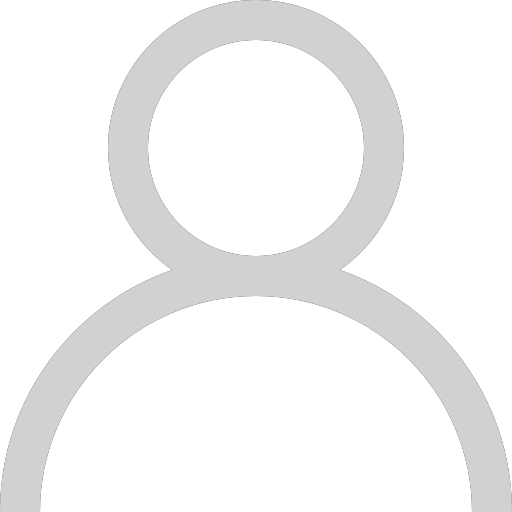
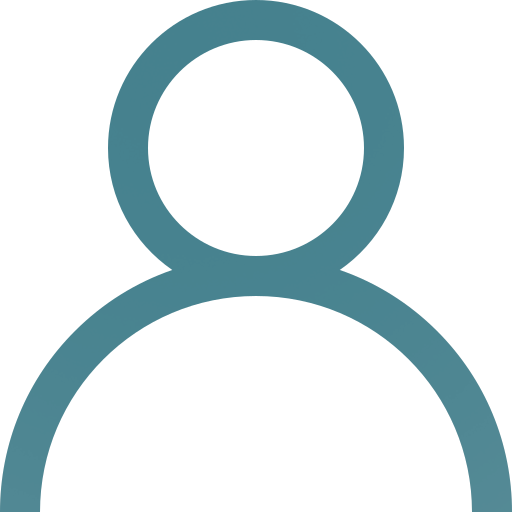
registeration first page

Changed region(s): [[0.0, 0.0, 1.0, 1.0]]

diff --git a/ui/src/components/registration.vue b/ui/src/components/registration.vue
@@ -1,54 +1,69 @@
 <template>
   <div class="registration">
     <div class="profile" v-if="pageState === 0">
-      <label class="uploadPicButton">
-        {{ upLoadPicName }}
-        <!-- 選擇檔案按鈕 但因為需要美化 因此直接display none -->
-        <input
-          type="file"
-          accept="image/jpg, image/jpeg, image/png, image/gif"
-          @change="changeImage"
-          style="display: none"
-        />
-      </label>
-      <img class="pic" :src="img" />
+      <div class="uploadPic">
+        <img :src="img"  class="pic"/>
+
+        <img class="uploadBtn" src="/static/media/camera_g.png"/>
+        <input type="file" 
+               accept="image/*" 
+               @change="changeImage"
+               class="customPicInput"   
+          />
+          <!-- <img class="uploadPicButton" for="customPicInput" src="/static/media/camera.png">
+            <input
+              type="file"
+              accept="image/jpg, image/jpeg, image/png, image/gif"
+              @change="changeImage"
+              style="opacity: 0;background-image: '/static/media/camera.png';"
+              id="customPicInput"
+            />
+          
+          <img class="pic" :src="img" /> -->
+      </div>
       <form class="inputProfile">
-        <div>
-          <label for="feedback-user">帳號</label>
-          <input v-model="userId" id="feedback-user" />
-          <p>介於1~20個字元{{ errAccount }}</p>
-          <label for="password">密碼</label>
-          <input v-model="password" type="password" id="password" />
-          <p>介於4~20個字元</p>
-        </div>
-        <div>
-          <label for="checkPassword">確認密碼</label>
-          <input v-model="checkPassword" type="password" id="checkPassword" />
-          <p v-if="correctPassword">一樣了~</p>
-          <p v-else>密碼不一樣</p>
-        </div>
-        <div>
-          <label for="nickname">暱稱</label>
-          <input v-model="nickname" type="text" id="nickname" />
-        </div>
-        <div>
-          <label for="birthday">生日</label>
-          <input v-model="birthday" id="birthday" type="date" />
-        </div>
-        <div>
-          <label for="interest">興趣</label>
-          <input v-model="interest" id="interest" type="text" />
-        </div>
-        <div>
-          <label for="intro">形容自己的一句話</label>
-          <input v-model="intro" id="intro" type="text" />
-        </div>
+          <div class="accountArea">
+            <label for="account">帳號</label>
+            <span style="color: #76a5af">介於1~20個字元{{ errAccount }}</span>
+            <div><input v-model="userId" id="account" /></div>
+          </div>
+          <div class="passwordArea">
+            <label for="password">密碼</label>
+            <span style="color: #76a5af">介於4~20個字元</span>
+            <div><input v-model="password" type="password" id="password" /></div>
+          </div>
+          <div class="checkPasswordArea">
+            <label for="checkPassword">確認密碼</label>
+            <span v-if="correctPassword" style="color: #b4a7d6;">一樣了~</span>
+            <span v-else style="color: #76a5af">密碼不一樣</span>
+            <div><input v-model="checkPassword" type="password" id="checkPassword" /></div>
+          </div>
+          <div class="nicknameArea">
+            <label for="nickname">暱稱</label>
+            <span style="color: #b4a7d6;">非必填</span>
+            <div><input v-model="nickname" type="text" id="nickname" /></div>
+          </div>
+          <div  class="birthdayArea">
+            <label for="birthday">生日</label>
+            <span style="color: #b4a7d6;">非必填</span>
+            <div><input v-model="birthday" id="birthday" type="date" /></div>
+          </div>
+          <div  class="interestArea">
+            <label for="interest">興趣</label>
+            <span style="color: #b4a7d6;">非必填</span>
+            <div><input v-model="interest" id="interest" type="text" /></div>
+          </div>
+          <div class="introArea">
+            <label for="intro">形容自己的一句話</label>
+            <span style="color: #b4a7d6;">非必填</span>
+            <div><input v-model="intro" id="intro" type="text" /></div>
+          </div>
       </form>
-      <p>{{ errMessage }}</p>
+      <p  style="color: #76a5af">{{ errMessage }}</p>
       <img
-        class="nextPage"
-        src="/static/media/rightarrow.png"
-        @click="nextPage"
+        class="nextPageImg"
+        src="/static/media/rightarrow_green.png"
+        @click="nextPageConsent"
       />
     </div>
     <div class="consentForm" v-if="pageState === 1">
@@ -59,8 +74,8 @@
       <div>
         {{ errNotAgree }}
         <img
-          class="nextPage"
-          src="/static/media/rightarrow.png"
+          class="nextPageImg"
+          src="/static/media/rightarrow_green.png"
           @click="nextFaceFeature"
         />
       </div>
@@ -89,8 +104,8 @@
       </div>
       <div>
         <img
-          class="nextPage"
-          src="/static/media/rightarrow.png"
+          class="nextPageImg"
+          src="/static/media/rightarrow_green.png"
           @click="finish"
         />
       </div>
@@ -108,7 +123,7 @@ export default {
       userId: "",
       upLoadPicName: "上傳照片",
       hasUploadPic: false,
-      img: "https://i.imgur.com/oPYT6RD.png",
+      img: "https://i.imgur.com/WinIC3F.png",
       file: "",
       errAccount: "",
       errMessage: "",
@@ -172,7 +187,7 @@ export default {
       this.birthday = year + "-" + month + "-" + date;
       field.value = year + "-" + month + "-" + date;
     },
-    nextPage() {
+    nextPageConsent() {
       console.log("想要下一頁");
       this.errMessage = "";
       this.errAccount = "";
@@ -193,7 +208,7 @@ export default {
                 console.log("NEXT");
                 this.pageState = 1;
               } else {
-                this.errAccount = "已存在此帳號";
+                this.errAccount = ",已存在此帳號";
               }
             }.bind(this)
           )
@@ -201,7 +216,7 @@ export default {
             console.log(error);
           });
       } else {
-        this.errMessage = "帳號密碼錯誤";
+        this.errMessage = "帳號密碼輸入格式錯誤";
       }
     },
     nextFaceFeature() {
@@ -241,6 +256,66 @@ export default {
 };
 </script>
 <style scoped>
+.uploadPic {
+    position: relative;
+    margin-bottom: 4vh;
+}
+/*customPicInput uploadBtn 修改時要同時修改*/
+.customPicInput{
+    position: absolute;
+    /* top: 0; */
+    bottom: 0;
+    /* left: 0; */
+    right: 0;
+    opacity: 0;
+    display: block;
+    width: 6vw;
+    height: 6vw;
+    clear: both;
+    margin-top: 10vw;
+    /* margin-bottom: 10vw; */
+}
+.uploadBtn{
+  width: 6vw;
+  height: 6vw;
+  margin-top: 10vw;
+  /* border-radius: 100%; */
+  /* margin-bottom: 10vw; */
+  /* margin-left: -7vw; */
+}
+.pic {
+  width: 45vw;
+  height: 45vw;
+  margin-top: 15vw;
+  border-radius: 100%;
+  /* margin-bottom: 5vw; */
+}
+.profile{
+    display: flex;
+    flex-direction: column;
+    align-items: center;
+}
+.inputProfile input{
+    border: 1px solid #45818e;
+    border-radius: 4px;
+    outline:none; 
+} 
+#account,#password,#checkPassword,#nickname,#birthday,#interest,#intro{
+    width:80vw;
+    margin:1vh  0 ;
+}
+.nextPageImg {
+  width: 10vw;
+  height: 10vw;
+  margin-top: 1vh;
+}
+.inputProfile span{
+    font-size: 0.7em;
+
+}
+.inputProfile label{
+  color: #45818e
+}
 .uploadPicButton {
   width: 45vw;
   height: 45vw;
@@ -259,21 +334,8 @@ export default {
     margin-left: -7vw;
     margin-top: -10vh; */
 }
-.pic {
-  width: 45vw;
-  height: 45vw;
-  /* position: fixed;
-    top: 5vw; */
-  margin-top: 15vw;
-  /* margin-left: 23vw; */
-  border-radius: 100%;
-  /* background-color: brown; */
-  margin-bottom: 5vw;
-}
-.nextPage {
-  width: 10vw;
-  height: 10vw;
-}
+
+
 .consentContent {
   resize: none;
   width: 80vw;

diff --git a/server/routes/user.js b/server/routes/user.js
@@ -261,7 +261,7 @@ router.post("/createAccount",async function(req, res, next) {
     insertObj["nickname"] = req.body.nickname
   }
 
-  if(req.body.avator!=="https://i.imgur.com/oPYT6RD.png"){
+  if(req.body.avator!=="https://i.imgur.com/WinIC3F.png"){
       options = {
         'method': 'POST',
         'url': 'https://api.imgur.com/3/image',
